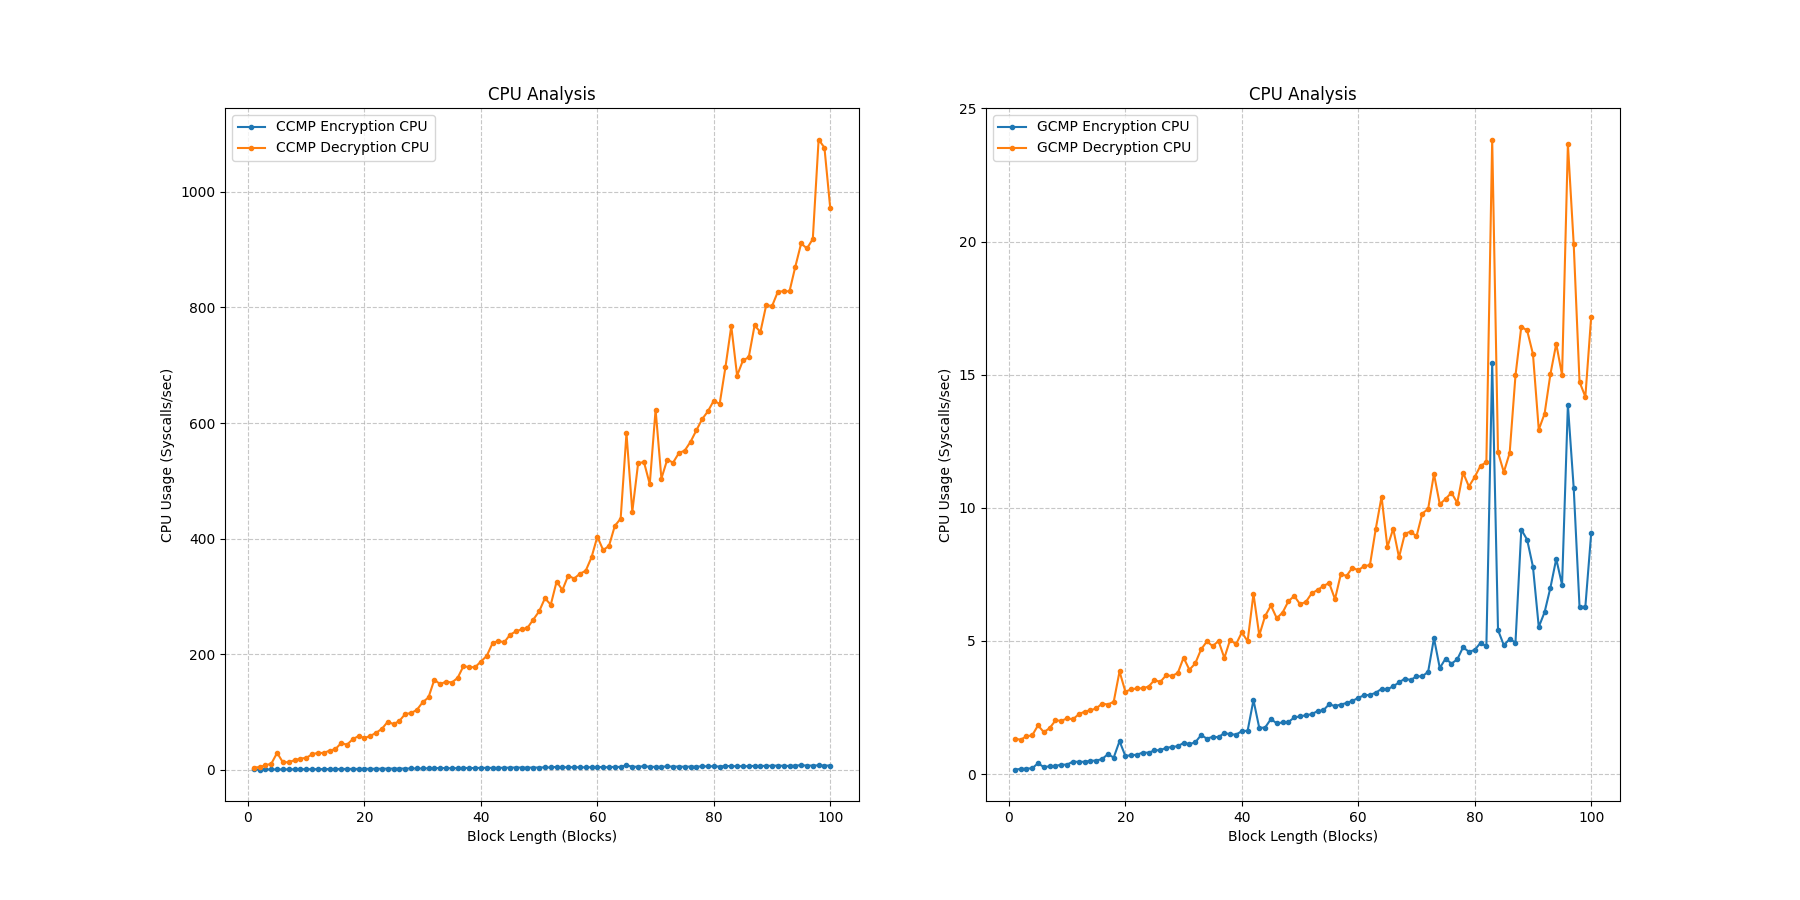
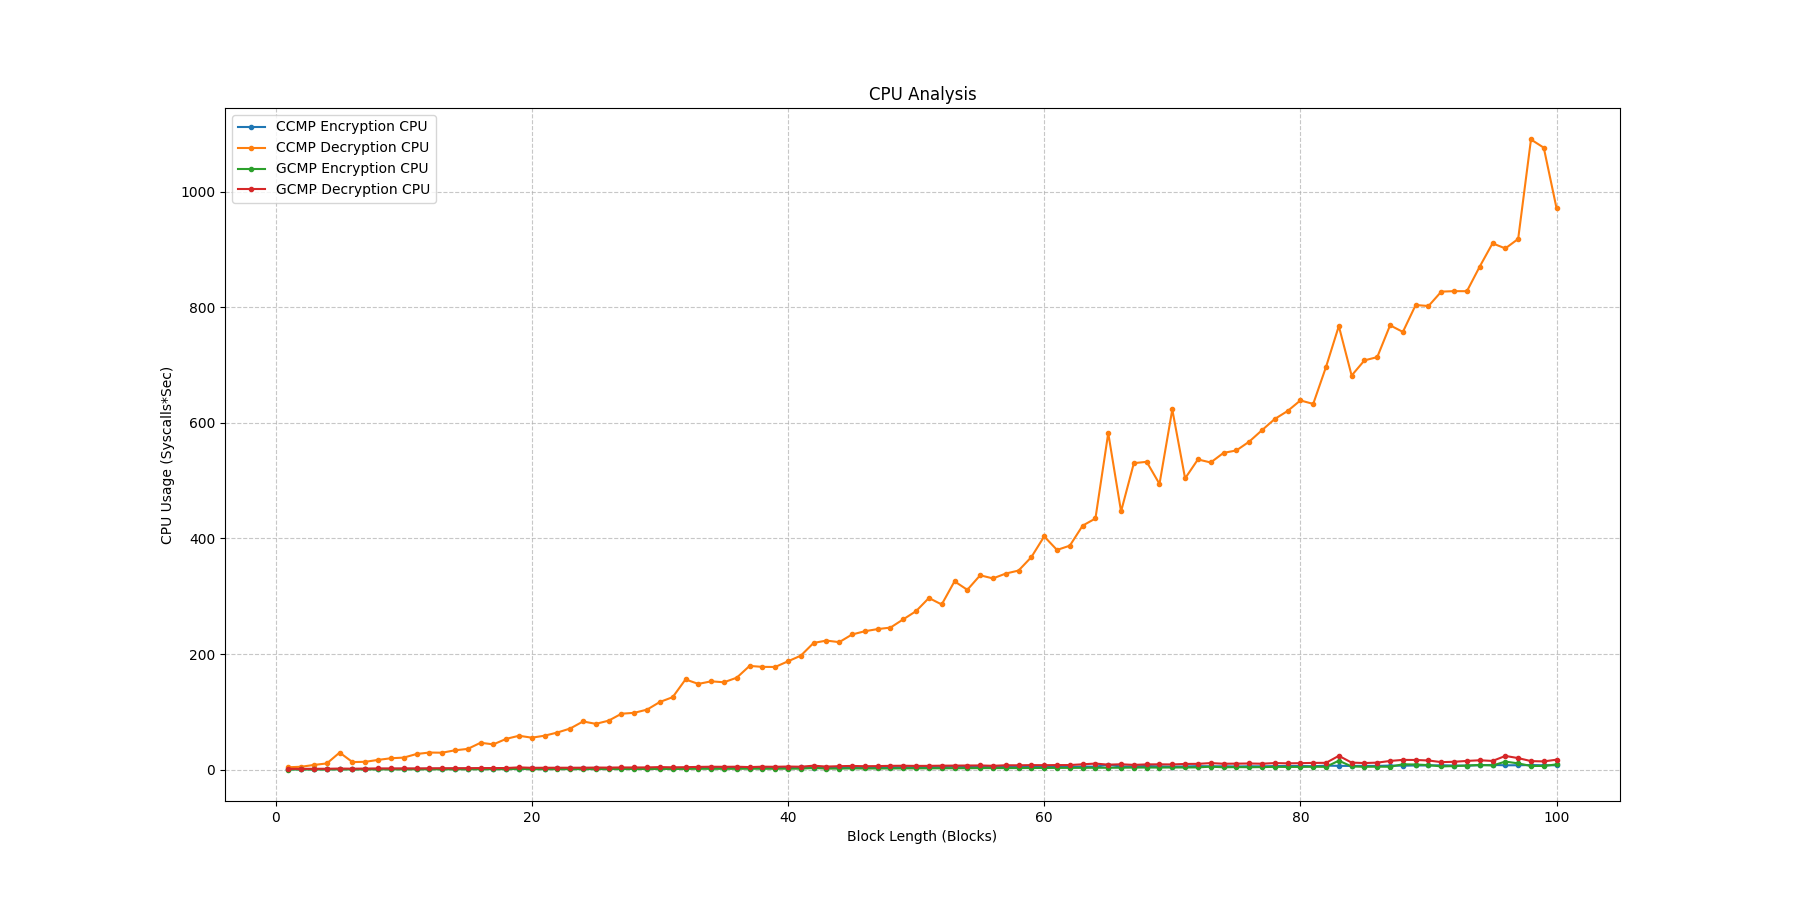
done u

diff --git a/plots_main.py b/plots_main.py
@@ -93,35 +93,15 @@ d6 = MatData(x, y, 'Time Analysis', 'Block Length (Blocks)', 'Time (ms)')
 subplot_data(df, d5, d6, 4)
 
 # Resources Analysis Graphs: CPU ->
-# Blk vs (CCMP Enc, CCMP Dec)
-y = ['CCMP Encryption CPU', 'CCMP Decryption CPU']
-d7 = MatData(x, y, 'CPU Analysis', 'Block Length (Blocks)', 'CPU Usage (Syscalls/sec)')
-# Blk vs (GCMP Enc, GCMP Dec)
-y = ['GCMP Encryption CPU', 'GCMP Decryption CPU']
-d8 = MatData(x, y, 'CPU Analysis', 'Block Length (Blocks)', 'CPU Usage (Syscalls/sec)')
-subplot_data(df, d7, d8, 5)
-# Blk vs (CCMP Enc, GCMP Enc)
-y = ['CCMP Encryption CPU', 'GCMP Encryption CPU']
-d9 = MatData(x, y, 'CPU Analysis', 'Block Length (Blocks)', 'CPU Usage (Syscalls/sec)')
-# Blk vs (CCMP Dec, GCMP Dec)
-y = ['CCMP Decryption CPU', 'GCMP Decryption CPU']
-d10 = MatData(x, y, 'CPU Analysis', 'Block Length (Blocks)', 'CPU Usage (Syscalls/sec)')
-subplot_data(df, d9, d10, 6)
+# Blk vs ( Enc vs Dec)
+y = ['CCMP Encryption CPU', 'CCMP Decryption CPU', 'GCMP Encryption CPU', 'GCMP Decryption CPU']
+d7 = MatData(x, y, 'CPU Analysis', 'Block Length (Blocks)', 'CPU Usage (Syscalls*Sec)')
+plot_data(df, d7, 5)
 
 # Resources Analysis Graphs: RAM ->
 # Blk vs (CCMP Enc, CCMP Dec)
-y = ['CCMP Encryption RAM', 'CCMP Decryption RAM']
-d11 = MatData(x, y, 'RAM Analysis', 'Block Length (Blocks)', 'RAM Usage (MiB)')
-# Blk vs (GCMP Enc, GCMP Dec)
-y = ['GCMP Encryption RAM', 'GCMP Decryption RAM']
-d12 = MatData(x, y, 'RAM Analysis', 'Block Length (Blocks)', 'RAM Usage (MiB)')
-subplot_data(df, d11, d12, 7)
-# Blk vs (CCMP Enc, GCMP Enc)
-y = ['CCMP Encryption RAM', 'GCMP Encryption RAM']
-d13 = MatData(x, y, 'RAM Analysis', 'Block Length (Blocks)', 'RAM Usage (MiB)')
-# Blk vs (CCMP Dec, GCMP Dec)
-y = ['CCMP Decryption RAM', 'GCMP Decryption RAM']
-d14 = MatData(x, y, 'RAM Analysis', 'Block Length (Blocks)', 'RAM Usage (MiB)')
-subplot_data(df, d13, d14, 8)
+y = ['CCMP Encryption RAM', 'CCMP Decryption RAM', 'GCMP Encryption RAM', 'GCMP Decryption RAM']
+d8 = MatData(x, y, 'RAM Analysis', 'Block Length (Blocks)', 'RAM Usage (MiB)')
+plot_data(df, d8, 6)
 
 # plt.show()
